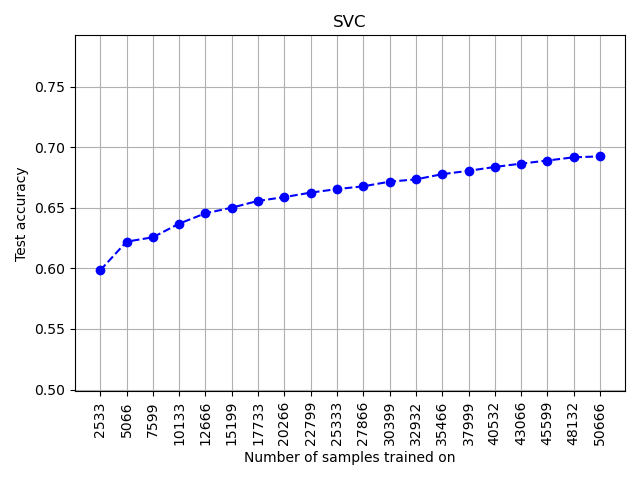
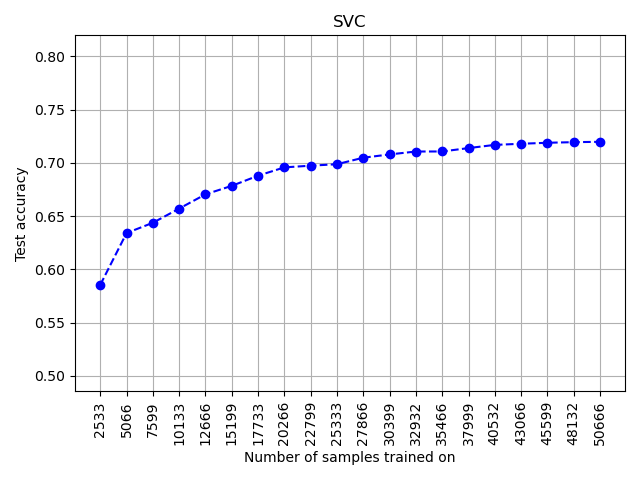
run all but cosface

diff --git a/configfile.py b/configfile.py
@@ -16,7 +16,6 @@ test = 0.00
 image_size = (128, 128)
 embedding_dimension = 128
 backbone = BackBone(embedding_dimension)
-device = torch.device('cuda:4') 
 
 # Dataset selection 
 class_names_all = ["artefact","Bacillariophyceae","cyano a","Chaetoceros","dark","light","Melosiraceae","nauplii","Neoceratium pentagonum", "detritus", "contrasted_blob", "Dinophyceae", "Coscinodiscaceae", "part<Crustacea", "fiber", "lightrods", "lightsphere", "darksphere", "cyano b", "chainthin"]
@@ -36,9 +35,10 @@ models["SimCLR"] = {
         "head" : ProjectionHead(embedding_dimension),
         "loss_function" : NTXentLoss(t=0.1),
         "trainer" : SimCLRTrainer(),
-        "batch_size" : 512,
-        "epochs" : 50,
-        "lr" : 0.0015
+        "batch_size" : 1024,
+        "epochs" : 20,
+        "lr" : 0.0015,
+        "device" : "cuda:3"
         }
 
 # Triplet Margin Loss Model
@@ -47,8 +47,9 @@ models["TripletMarginLoss"] = {
         "loss_function" : TripletLoss(margin=0.5),
         "trainer" : TripletTrainer(),
         "batch_size" : 128,
-        "epochs" : 50,
-        "lr" : 0.0015
+        "epochs" : 20,
+        "lr" : 0.0015,
+        "device" : "cuda:4"
         }
 
 # ArcFace Model
@@ -57,8 +58,9 @@ models["ArcFace"] = {
         "loss_function" : AngularMarginLoss(m=0.5, s=64, number_of_classes=number_of_classes),
         "trainer" : XFaceTrainer(),
         "batch_size" : 128,
-        "epochs" : 50,
-        "lr" : 0.0015
+        "epochs" : 20,
+        "lr" : 0.0015,
+        "device" : "cuda:5"
         }
 
 # CosFace Model
@@ -67,8 +69,9 @@ models["CosFace"] = {
         "loss_function" : LargeMarginCosineLoss(m=0.5, s=64, number_of_classes=number_of_classes),
         "trainer" : XFaceTrainer(),
         "batch_size" : 128,
-        "epochs" : 50,
-        "lr" : 0.0015
+        "epochs" : 20,
+        "lr" : 0.0015,
+        "device" : "cuda:6"
         }
 
 # Standard Softmax Classifier Model
@@ -77,8 +80,9 @@ models["Softmax"] = {
         "loss_function" : nn.CrossEntropyLoss(),
         "trainer" : ClassifierTrainer(),
         "batch_size" : 128,
-        "epochs" : 50,
-        "lr" : 0.0015
+        "epochs" : 20,
+        "lr" : 0.0015,
+        "device" : "cuda:7"
         }
 
 # Select and load model
@@ -89,6 +93,7 @@ choice = int(input("Choose model: "))
 config_name = model_names[choice]
 selected_model = models[config_name]
 
+device = torch.device(selected_model["device"]) 
 head = selected_model["head"]
 loss_function = selected_model["loss_function"]
 trainer = selected_model["trainer"]

diff --git a/generate_final_plots.py b/generate_final_plots.py
@@ -1,0 +1,22 @@
+import pandas as pd
+import matplotlib.pyplot as plt
+from configfile import models
+from os.path import join, isfile
+
+val_accuracies = pd.DataFrame()
+test_accuracies = pd.DataFrame()
+
+for model in models.keys():
+    figspath = join("figs", model)
+    train_history_filename = join(figspath, "train_history.pkl")
+    accuracies_filename = join(figspath, "svc_accuracies.pkl")
+    if isfile(train_history_filename):
+        val_accuracies[model] = pd.read_pickle(train_history_filename)["val_accuracy"]
+    if isfile(accuracies_filename):
+        test_accuracies[model] = pd.read_pickle(accuracies_filename)["accuracy"]
+
+val_plot = val_accuracies.plot(title="Validation accuracy (Seen data)", xlabel="Steps", ylabel="Accuracy [%]").get_figure()
+val_plot.savefig("figs/val_acc_all.png")
+
+test_plot = val_accuracies.plot(title="Test accuracy (Unseen data)", xlabel="Training dataset size", ylabel="Accuracy [%]").get_figure()
+test_plot.savefig("figs/test_acc_all.png")

diff --git a/embed.py b/embed.py
@@ -19,6 +19,6 @@ if __name__ == "__main__":
     backbone.load_state_dict(torch.load(join(checkpoints_path, "best.pth")))
     
     print("Embedding data.")
-    save_embeddings(backbone, class_idx, train_dataloader, embeddings_file_train, device)
+    #save_embeddings(backbone, class_idx, train_dataloader, embeddings_file_train, device)
     #save_embeddings(backbone, class_idx, test_dataloader, embeddings_file_test, device)
     save_embeddings(backbone, class_idx_unseen, unseen_dataloader, embeddings_file_unseen, device)

diff --git a/trainer.py b/trainer.py
@@ -103,6 +103,11 @@ class BaseTrainer:
         fig.tight_layout()
         plt.savefig(filename)
 
+    def save_train_history(self, filename):
+        # Save loss and accuracy history to pickled dataframe for later use
+        df = pd.DataFrame.from_dict(self.train_history)
+        df.to_pickle(filename)
+
 class SimCLRTrainer(BaseTrainer):
     """
         Trainer class for SimCLR self-supervised learning

diff --git a/utilities.py b/utilities.py
@@ -79,7 +79,7 @@ def save_embeddings(backbone, class_idx, dataloader, filename, device):
     print(f"Dataframe ({df.shape[0]} x {df.shape[1]}) saved to {filename}")
 
 class EarlyStopper():
-    def __init__(self, limit = 20, min_change = 0.025):
+    def __init__(self, limit = 20, min_change = 0.05):
         self.limit = limit
         self.min_change = min_change
         self.max_accuracy = 0

diff --git a/train.py b/train.py
@@ -15,3 +15,4 @@ if __name__ == "__main__":
     print(f"Training model: {config_name}")
     trainer.train(checkpoint_filename=join(checkpoints_path, "best.pth"))
     trainer.save_plot(join(figs_path, "training_plot.png"))
+    trainer.save_train_history(join(figs_path, "train_history.pkl"))
